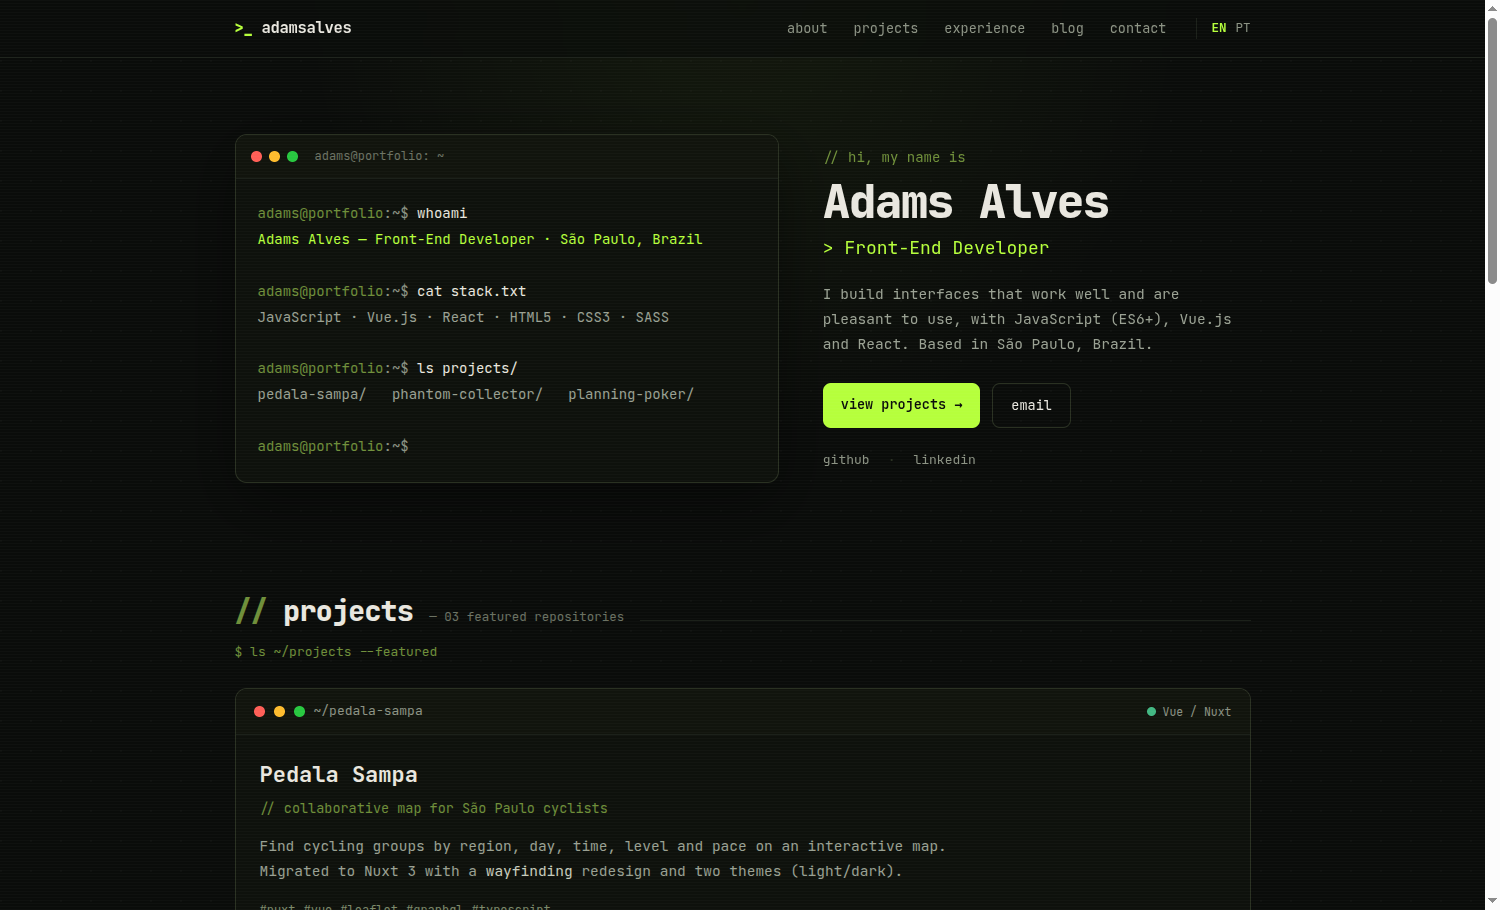
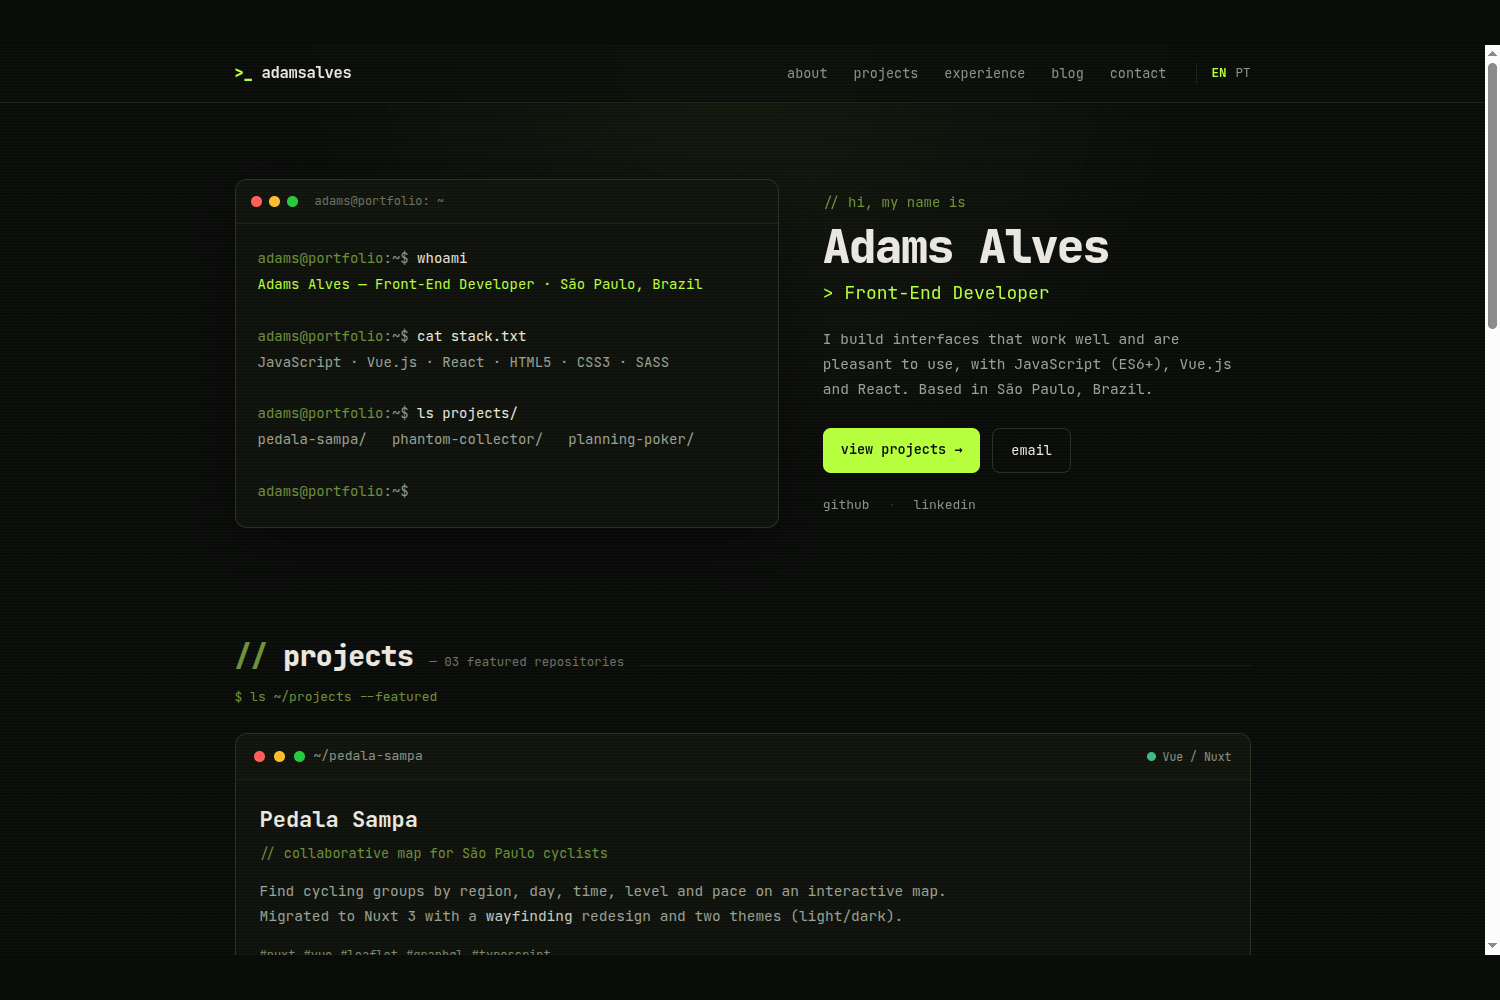
ci(demo): deploy exampleSite to GitHub Pages + Hugo gallery prep
- Add .github/workflows/pages.yml (builds exampleSite, deploys to Pages).
- Pad images/screenshot.png to 1500x1000 (gallery requirement).
- Set exampleSite baseURL to https://example.com (gallery convention;
  the deploy overrides it via --baseURL).
- theme.toml: point homepage to the repo and demosite to the Pages URL.
- README: absolute image path + corrected submission steps (issue at
  gohugoio/hugoThemes, not a PR).

diff --git a/README.md b/README.md
@@ -2,7 +2,7 @@
 
 Personal **dark / monospace** theme for portfolio + blog. Typing terminal hero, repository-style project cards, a blog with a reading-progress bar, tag pages and a 404 — all in the same aesthetic. **No third-party JS dependencies.**
 
-![Terminal Mono](images/screenshot.png)
+![Terminal Mono](/images/screenshot.png)
 
 - 🎨 Dark-only, JetBrains Mono, lime accent — all driven by CSS variables.
 - ⌨ Hero terminal with a typewriter effect (degrades gracefully without JS).
@@ -166,15 +166,18 @@ The theme is already a self-contained, versionable folder. To distribute it:
    ```
 2. **Tag a version** (SemVer) — this is what Hugo Modules and the submodule use:
    ```bash
-   git tag -a v0.1.0 -m "Terminal Mono v0.1.0"
-   git push origin v0.1.0
+   git tag -a v0.2.0 -m "Terminal Mono v0.2.0"
+   git push origin v0.2.0
    ```
-3. (Optional) **Live demo:** `netlify.toml` already builds the `exampleSite/`. Connect the
-   repo on Netlify and update `homepage`/`demosite` in `theme.toml`.
-4. (Optional) **Official gallery:** submit the theme to
-   [themes.gohugo.io](https://github.com/gohugoio/hugoThemesSiteBuilder) — the requirements
-   (`theme.toml`, `LICENSE`, `exampleSite/`, `images/screenshot.png` + `images/tn.png`)
-   are already met.
+3. **Live demo:** a GitHub Actions workflow (`.github/workflows/pages.yml`) builds the
+   `exampleSite/` and deploys it to GitHub Pages on every push to `main`
+   (<https://adamsalves.github.io/terminal-mono/>). `netlify.toml` is included as an
+   alternative.
+4. **Official gallery ([themes.gohugo.io](https://themes.gohugo.io)):** submit by opening an
+   **issue** at [`gohugoio/hugoThemes`](https://github.com/gohugoio/hugoThemes) with a link to
+   this repository — it is **not** a pull request. Requirements (all met): `theme.toml`, an
+   OSI `LICENSE`, `README.md`, an `exampleSite/` with `baseURL = "https://example.com"`,
+   `images/screenshot.png` (1500×1000) and `images/tn.png` (900×600).
 
 > When you move the repository, update the `module` in `go.mod`, the `licenselink` in
 > `theme.toml`, and the links in `CHANGELOG.md`/`README.md` to the new path.

diff --git a/CHANGELOG.md b/CHANGELOG.md
@@ -6,6 +6,14 @@ and this project adheres to [Semantic Versioning](https://semver.org/).
 
 ## [Unreleased]
 
+### Changed
+- Docs: corrected the theme-submission instructions (open an issue at `gohugoio/hugoThemes`,
+  not a PR) and added a GitHub Pages workflow that publishes the `exampleSite/` demo.
+
+### Fixed
+- Home and in-page anchor links (nav brand/links, 404) now respect a baseURL sub-path, so
+  the nav works on project sites served under a path (e.g. `…/terminal-mono/`).
+
 ## [0.2.0] — 2026-06-21
 
 ### Added
